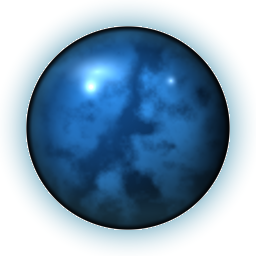
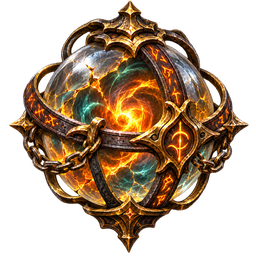
FEAT: Use the supplied ornate orb artwork for the Encapsulation Orb

diff --git a/LastEpoch_Hud/Scripts/Mods/Items/Drop/OrbItemVisuals.cs b/LastEpoch_Hud/Scripts/Mods/Items/Drop/OrbItemVisuals.cs
@@ -112,10 +112,10 @@ internal static class OrbItemVisuals
     private static void Rewrite(UITooltipItem ui)
     {
         AdvancedMaterial m = Material;
-        Set(ui.nameText, "<cspace=1.65><color=#8FD8FFFF>" + m.Name + "</color></cspace>");
+        Set(ui.nameText, "<cspace=1.65><color=#FFA94AFF>" + m.Name + "</color></cspace>");
         Set(ui.typeText, "Advanced Crafting Orb");
         var body = new System.Text.StringBuilder();
-        body.Append("<color=#8FD8FF>").Append(m.Effect).Append("</color>");
+        body.Append("<color=#FFB75A>").Append(m.Effect).Append("</color>");
         foreach (string rule in m.Rules)
         {
             body.Append("\n").Append("<color=#C8C0AA>").Append(rule).Append("</color>");

diff --git a/LastEpoch_Hud/Scripts/Mods/Items/Crafting/AdvancedMaterials.cs b/LastEpoch_Hud/Scripts/Mods/Items/Crafting/AdvancedMaterials.cs
@@ -35,8 +35,8 @@ internal static class AdvancedMaterials
             Effect = "Fractures a random affix",
             Rules = new[] { "Item needs at least four affixes", "Can only be used once on an item", "Every affix is equally likely" },
             Flavour = "What the orb holds, it keeps.",
-            Tint = new Color(0.16f, 0.5f, 0.82f),
-            Glow = new Color(0.5f, 0.88f, 1f),
+            Tint = new Color(0.9f, 0.5f, 0.15f),
+            Glow = new Color(1f, 0.7f, 0.3f),
         },
     };
 

diff --git a/scripts/Generate-OrbArt.py b/scripts/Generate-OrbArt.py
@@ -140,6 +140,6 @@ def diamond(size, base, bright):
     return img
 
 
-orb(256, (0.10, 0.42, 0.78), (0.45, 0.85, 1.0), 7).save(os.path.join(OUT, 'orb_encapsulation.png'))
+# orb_encapsulation.png is supplied artwork, not drawn here
 diamond(64, (0.25, 0.60, 0.95), (0.65, 0.92, 1.0)).save(os.path.join(OUT, 'diamond_fractured.png'))
 print('done', os.path.abspath(OUT))
